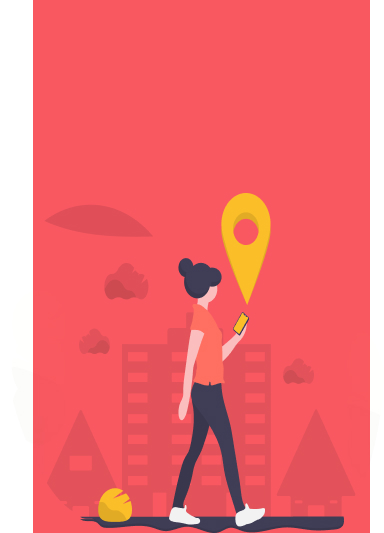
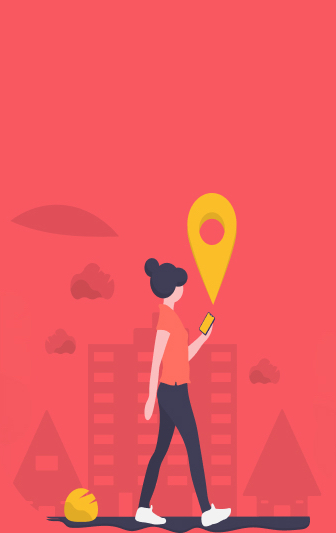
homepage fixes

diff --git a/app/assets/stylesheets/complaints/index.scss b/app/assets/stylesheets/complaints/index.scss
@@ -1,11 +1,65 @@
-.girl_icon{
-position: absolute;
-left: 132px;
-top: 0px;
-width: 20%;
-height: 45%;
-max-width: 50%
+.container {
+  display: flex;
+  flex-direction: column;
+  width: 100%;
+  margin: 0;
+  margin-right:-10px;
+
+  padding: 0;
 }
+
+.header-container {
+  display: flex;
+  flex-direction: row;
+  width: 100%;
+  margin-left:13%;
+  margin-right:13%;
+  justify-content: space-around;
+
+
+}
+
+@media screen and (max-width: 768px) {
+  .header-container {
+    display: flex;
+    flex-direction: column;
+    left:8%;
+    right:8%;
+  }
+}
+
+.image {
+  position: relative;
+  object-fit: contain;
+  top: -80px;
+}
+
+.title-container {
+  display: flex;
+  flex-direction: column;
+  margin-left: 20px;
+  margin-right: 20px;
+}
+
+.title {
+  font-family: Montserrat;
+  font-style: normal;
+  font-weight: 500;
+  font-size: 50px;
+  line-height: 80px;
+}
+
+
+.subtitle {
+  margin-top: 20px;
+  font-family: Roboto;
+  font-style: normal;
+  font-weight: 300;
+  font-size: 25px;
+  line-height: 21px;
+}
+
+
 
 .mapboxgl-popup {
   max-width: 200px;
@@ -16,42 +70,3 @@ max-width: 50%
   font-family: 'Open Sans', sans-serif;
 }
 
-
-.header{
-position: absolute;
-left: 509px;
-top: 101px;
-font-family: Montserrat;
-font-style: normal;
-font-weight: 500;
-font-size: 50px;
-line-height: 80px;
-}
-
-.text1{
-position: absolute;
-left: 520px;
-top: 210px;
-font-family: Roboto;
-font-style: normal;
-font-weight: 300;
-font-size: 25px;
-line-height: 21px;
-}
-
-.flex-container{
-  display: flex;
-  flex-wrap: wrap;
-}
-
-.row {
-display: flex;
-  flex-wrap: wrap;
-}
-
-
-@media screen and (max-width: 200px) {
-  .row {
-    flex-direction: column;
-  }
-}

diff --git a/app/javascript/plugins/init_mapbox.js b/app/javascript/plugins/init_mapbox.js
@@ -10,7 +10,8 @@ const buildMap = () => {
   mapboxgl.accessToken = mapElement.dataset.mapboxApiKey;
   return new mapboxgl.Map({
     container: 'map',
-    style: 'mapbox://styles/mapbox/streets-v10'
+    style: 'mapbox://styles/mapbox/streets-v11',
+    zoom: 9
   });
 };
 

diff --git a/app/assets/stylesheets/components/_navbar.scss b/app/assets/stylesheets/components/_navbar.scss
@@ -10,4 +10,3 @@
 .navbar-lewagon .navbar-brand img {
   width: 100px;
 }
-
